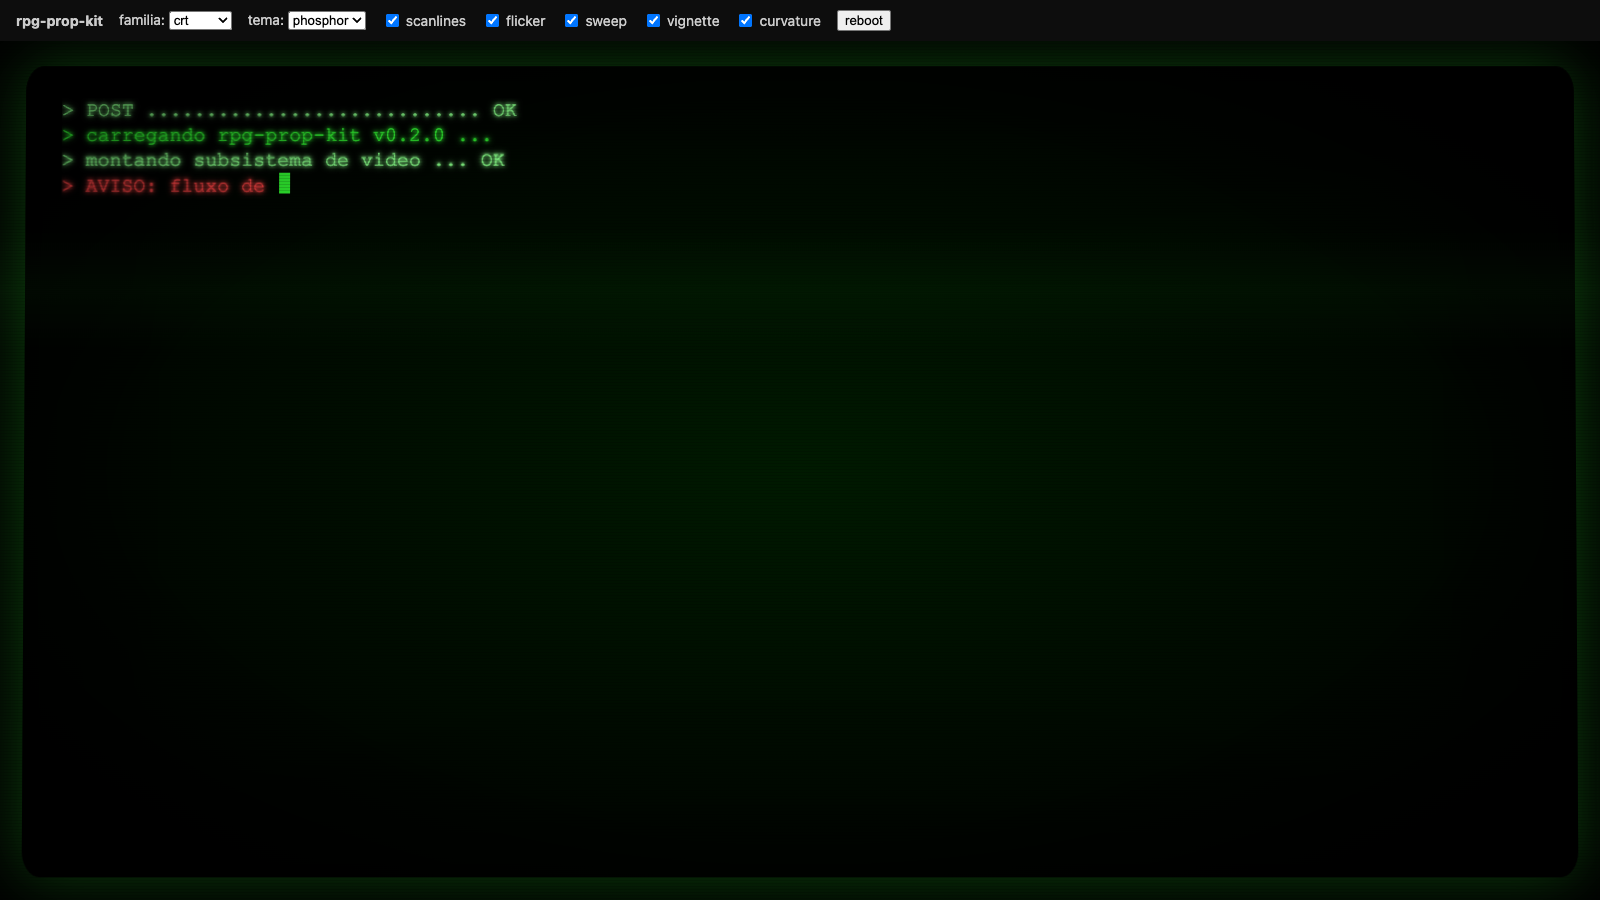
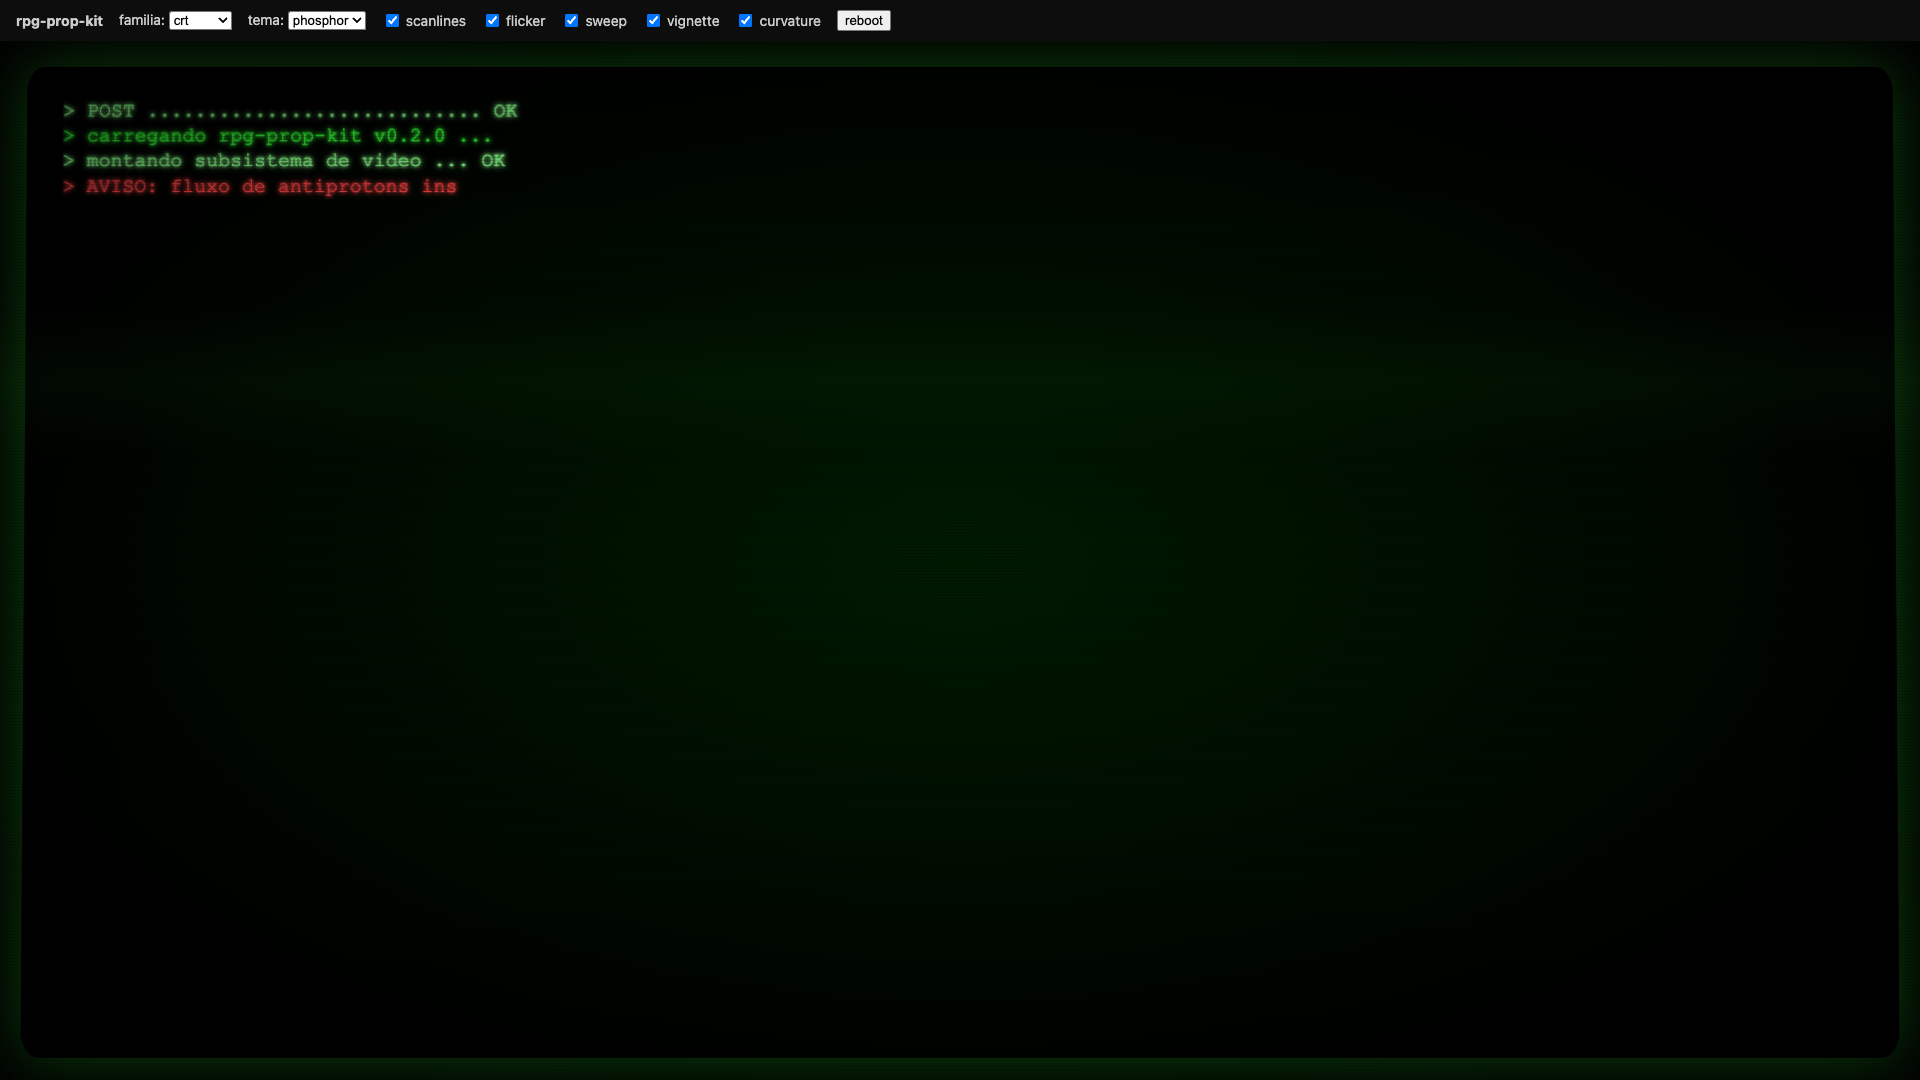
docs: 1080p screenshots, click to enlarge in README

Changed region(s): [[0.0312, 0.0622, 0.9688, 0.2178], [0.0, 0.0, 0.5625, 0.0311], [0.2188, 0.9644, 0.75, 0.9956]]

diff --git a/README.md b/README.md
@@ -14,9 +14,11 @@ o resto é a mesma linguagem visual para handouts de fantasia e sci-fi.
 
 ## Screenshots
 
-![CRT com boot typewriter](docs/screenshots/crt-screen.png)
+Clique para ver em 1080p.
 
-![Props analógicos: pergaminho, cartaz, placa, dataslate](docs/screenshots/analog-props.png)
+[<img src="docs/screenshots/crt-screen.png" width="720" alt="CRT com boot typewriter">](docs/screenshots/crt-screen.png)
+
+[<img src="docs/screenshots/analog-props.png" width="720" alt="Props analógicos: pergaminho, cartaz, placa, dataslate">](docs/screenshots/analog-props.png)
 
 ## Componentes
 
